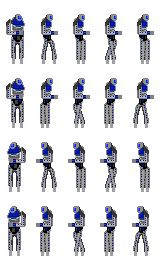
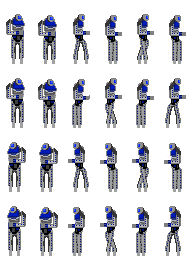
More character animation and fix frame sizing

diff --git a/src/com/elveskevtar/divebomb/gfx/Game.java b/src/com/elveskevtar/divebomb/gfx/Game.java
@@ -332,7 +332,7 @@ public abstract class Game extends JPanel
 		/* takes into account the insets of the JFrame when setting the size */
 		this.setSize(frame.getWidth() - frame.getInsets().left - frame.getInsets().right,
 				frame.getHeight() - frame.getInsets().top - frame.getInsets().bottom);
-
+		
 		/* sets this component to be double buffered when painted */
 		this.setDoubleBuffered(true);
 
@@ -619,7 +619,7 @@ public abstract class Game extends JPanel
 
 		/* draws the map in relation to the users position */
 		g2d.drawImage(paintMap, (int) (user.getxPosition() + getWidth() / 2) - user.getSpriteWidth() / 2,
-				(int) (user.getyPosition() + getHeight() / 2), null);
+				(int) (user.getyPosition() + getHeight() / 2) - user.getSpriteHeight() / 2, null);
 
 		/*
 		 * draws every player that is not the user and is not dead as well as
@@ -631,7 +631,8 @@ public abstract class Game extends JPanel
 				/* draws the player in relation to user */
 				g2d.drawImage(p.getPlayerSprite(),
 						(int) (getWidth() / 2 + (user.getxPosition() - p.getxPosition())) - user.getSpriteWidth() / 2,
-						(int) (getHeight() / 2 + (user.getyPosition() - p.getyPosition())), null);
+						(int) (getHeight() / 2 + (user.getyPosition() - p.getyPosition())) - user.getSpriteHeight() / 2,
+						null);
 
 				/* initializes weapon drawing variables */
 				double rAngle = 0;
@@ -648,14 +649,14 @@ public abstract class Game extends JPanel
 					if (p.isFacingRight()) {
 						x = getWidth() / 2 + (user.getxPosition() - p.getxPosition()) - user.getSpriteWidth() / 2
 								+ p.getWeaponXTweak() + p.getInHand().getxAdjustment();
-						y = getHeight() / 2 + (user.getyPosition() - p.getyPosition()) + p.getInHand().getyAdjustment()
-								+ p.getWeaponYTweak() + p.getInHand().getHeight() / 2;
+						y = getHeight() / 2 + (user.getyPosition() - p.getyPosition()) - user.getSpriteHeight() / 2
+								+ p.getInHand().getyAdjustment() + p.getWeaponYTweak() + p.getInHand().getHeight() / 2;
 						g2d.rotate(rAngle, x, y);
 					} else {
 						x = getWidth() / 2 + (user.getxPosition() - p.getxPosition()) - user.getSpriteWidth() / 2
 								+ p.getWeaponXTweak() + p.getInHand().getxAdjustment() + p.getInHand().getWidth();
-						y = getHeight() / 2 + (user.getyPosition() - p.getyPosition()) + p.getInHand().getyAdjustment()
-								+ p.getWeaponYTweak() + p.getInHand().getHeight() / 2;
+						y = getHeight() / 2 + (user.getyPosition() - p.getyPosition()) - user.getSpriteHeight() / 2
+								+ p.getInHand().getyAdjustment() + p.getWeaponYTweak() + p.getInHand().getHeight() / 2;
 						g2d.rotate(rAngle, x, y);
 					}
 				}
@@ -664,8 +665,8 @@ public abstract class Game extends JPanel
 				g2d.drawImage(p.getInHand().getSprite(),
 						getWidth() / 2 + (int) (user.getxPosition() - p.getxPosition()) - user.getSpriteWidth() / 2
 								+ p.getWeaponXTweak() + p.getInHand().getxAdjustment(),
-						getHeight() / 2 + (int) (user.getyPosition() - p.getyPosition()) + p.getWeaponYTweak()
-								+ p.getInHand().getyAdjustment(),
+						getHeight() / 2 + (int) (user.getyPosition() - p.getyPosition()) - user.getSpriteHeight() / 2
+								+ p.getWeaponYTweak() + p.getInHand().getyAdjustment(),
 						null);
 
 				/* 'unrotates' graphics for projectile shooter weapons */
@@ -675,14 +676,16 @@ public abstract class Game extends JPanel
 				/* draw names for players above their heads */
 				g2d.drawString(p.getName(),
 						(int) (getWidth() / 2 + (user.getxPosition() - p.getxPosition()) - p.getName().length() * 3), //
-						(int) (getHeight() / 2 + (user.getyPosition() - p.getyPosition())) + 5);
+						(int) (getHeight() / 2 + (user.getyPosition() - p.getyPosition())) - user.getSpriteHeight() / 2
+								+ 10);
 			}
 		}
 
 		/* draws user, weapon, and name assuming user is not dead */
 		if (!user.isDead()) {
 			/* draws user in the middle of the screen */
-			g2d.drawImage(user.getPlayerSprite(), getWidth() / 2 - user.getSpriteWidth() / 2, getHeight() / 2, null);
+			g2d.drawImage(user.getPlayerSprite(), getWidth() / 2 - user.getSpriteWidth() / 2,
+					getHeight() / 2 - user.getSpriteHeight() / 2, null);
 
 			/* initializes weapon drawing variables for user */
 			double rAngle = 0;
@@ -700,13 +703,13 @@ public abstract class Game extends JPanel
 					x = getWidth() / 2 + user.getWeaponXTweak() + user.getInHand().getxAdjustment()
 							- user.getSpriteWidth() / 2;
 					y = getHeight() / 2 + user.getInHand().getyAdjustment() + user.getWeaponYTweak()
-							+ user.getInHand().getHeight() / 2;
+							+ user.getInHand().getHeight() / 2 - user.getSpriteHeight() / 2;
 					g2d.rotate(rAngle, x, y);
 				} else {
 					x = getWidth() / 2 + user.getWeaponXTweak() + user.getInHand().getxAdjustment()
 							+ user.getInHand().getWidth() - user.getSpriteWidth() / 2;
 					y = getHeight() / 2 + user.getInHand().getyAdjustment() + user.getWeaponYTweak()
-							+ user.getInHand().getHeight() / 2;
+							+ user.getInHand().getHeight() / 2 - user.getSpriteHeight() / 2;
 					g2d.rotate(rAngle, x, y);
 				}
 			}
@@ -715,14 +718,17 @@ public abstract class Game extends JPanel
 			g2d.drawImage(user.getInHand().getSprite(),
 					getWidth() / 2 + user.getWeaponXTweak() + user.getInHand().getxAdjustment()
 							- user.getSpriteWidth() / 2,
-					getHeight() / 2 + user.getInHand().getyAdjustment() + user.getWeaponYTweak(), null);
+					getHeight() / 2 + user.getInHand().getyAdjustment() + user.getWeaponYTweak()
+							- user.getSpriteHeight() / 2,
+					null);
 
 			/* 'unrotates' graphics for projectile shooter weapons */
 			if (user.getInHand() instanceof ProjectileShooter)
 				g2d.rotate(-rAngle, x, y);
 
 			/* draws name of user above their head */
-			g2d.drawString(user.getName(), getWidth() / 2 - user.getName().length() * 3, getHeight() / 2 + 5); //
+			g2d.drawString(user.getName(), getWidth() / 2 - user.getName().length() * 3,
+					getHeight() / 2 - user.getSpriteHeight() / 2 + 10); //
 		}
 
 		/*
@@ -733,11 +739,13 @@ public abstract class Game extends JPanel
 			double rAngle = p.getrAngle() + Math.PI;
 			double x = user.getxPosition() - user.getSpriteWidth() / 2 - p.getxPosition() + getWidth() / 2
 					+ p.getWidth() / 2;
-			double y = user.getyPosition() - p.getyPosition() + getHeight() / 2 + p.getHeight() / 2;
+			double y = user.getyPosition() - user.getSpriteHeight() / 2 - p.getyPosition() + getHeight() / 2
+					+ p.getHeight() / 2;
 			g2d.rotate(rAngle, x, y);
 			g2d.drawImage(p.getSprite(),
 					(int) (user.getxPosition() - p.getxPosition() + getWidth() / 2) - user.getSpriteWidth() / 2,
-					(int) (user.getyPosition() - p.getyPosition() + getHeight() / 2), null);
+					(int) (user.getyPosition() - p.getyPosition() + getHeight() / 2) - user.getSpriteHeight() / 2,
+					null);
 			g2d.rotate(-rAngle, x, y);
 		}
 
@@ -870,10 +878,10 @@ public abstract class Game extends JPanel
 			if (user.getInHand() instanceof ProjectileShooter)
 				if (user.isFacingRight())
 					((ProjectileShooter) user.getInHand())
-							.setrAngle(Math.atan2(e.getY() - getHeight() / 2 - 32 * zoom, e.getX() - getWidth() / 2));
+							.setrAngle(Math.atan2(e.getY() - getHeight() / 2, e.getX() - getWidth() / 2));
 				else
-					((ProjectileShooter) user.getInHand()).setrAngle(
-							Math.atan2(e.getY() - getHeight() / 2 - 32 * zoom, e.getX() - getWidth() / 2) - Math.PI);
+					((ProjectileShooter) user.getInHand())
+							.setrAngle(Math.atan2(e.getY() - getHeight() / 2, e.getX() - getWidth() / 2) - Math.PI);
 		}
 	}
 
@@ -1167,7 +1175,7 @@ public abstract class Game extends JPanel
 							p.setyPosition(p.getyPosition() + p.getVeloy());
 							p.setrAngle(Math.atan2(p.getVeloy(), p.getVelox()));
 						}
-
+ 
 						/*
 						 * creates an AffineTransform that will rotate the
 						 * Projectile around its center

diff --git a/src/com/elveskevtar/divebomb/gfx/Frame.java b/src/com/elveskevtar/divebomb/gfx/Frame.java
@@ -46,16 +46,19 @@ public class Frame extends JFrame {
 	 */
 	public Frame(int width, int height) {
 		/* calls super constructor and sets title of frame to DiveBomb */
-		super("DiveBomb");
+		super("The Interventionists");
 
+		/* user can only resize screen via the options menu */
+		this.setResizable(false);
+		
+		/* packs the window */
+		this.pack();
+		
 		/*
 		 * setSize(int width, int height) does not automatically take into
 		 * account insets of jframe so this statement does it manually
 		 */
 		this.setSize(getInsets().left + getInsets().right + width, getInsets().top + getInsets().bottom + height);
-
-		/* user can only resize screen via the options menu */
-		this.setResizable(false);
 
 		/*
 		 * after the screen size has been initially set, this statement centers

diff --git a/README.md b/README.md
@@ -10,6 +10,7 @@ To-Do List:<br>
 <s>Create an enumeration for the maps found in the game</s><br>
 <s>Fixed MP bug where player's could jump extremely fast if they collide with a ceiling</s><br>
 <s>Make login packets more efficient</s><br>
+<s>Fix the frame/component sizes/insets</s><br>
 Add a stamina component to jumping<br>
 Make stamina regulated by the server in MP gamemodes<br>
 Test and improve collision<br>
